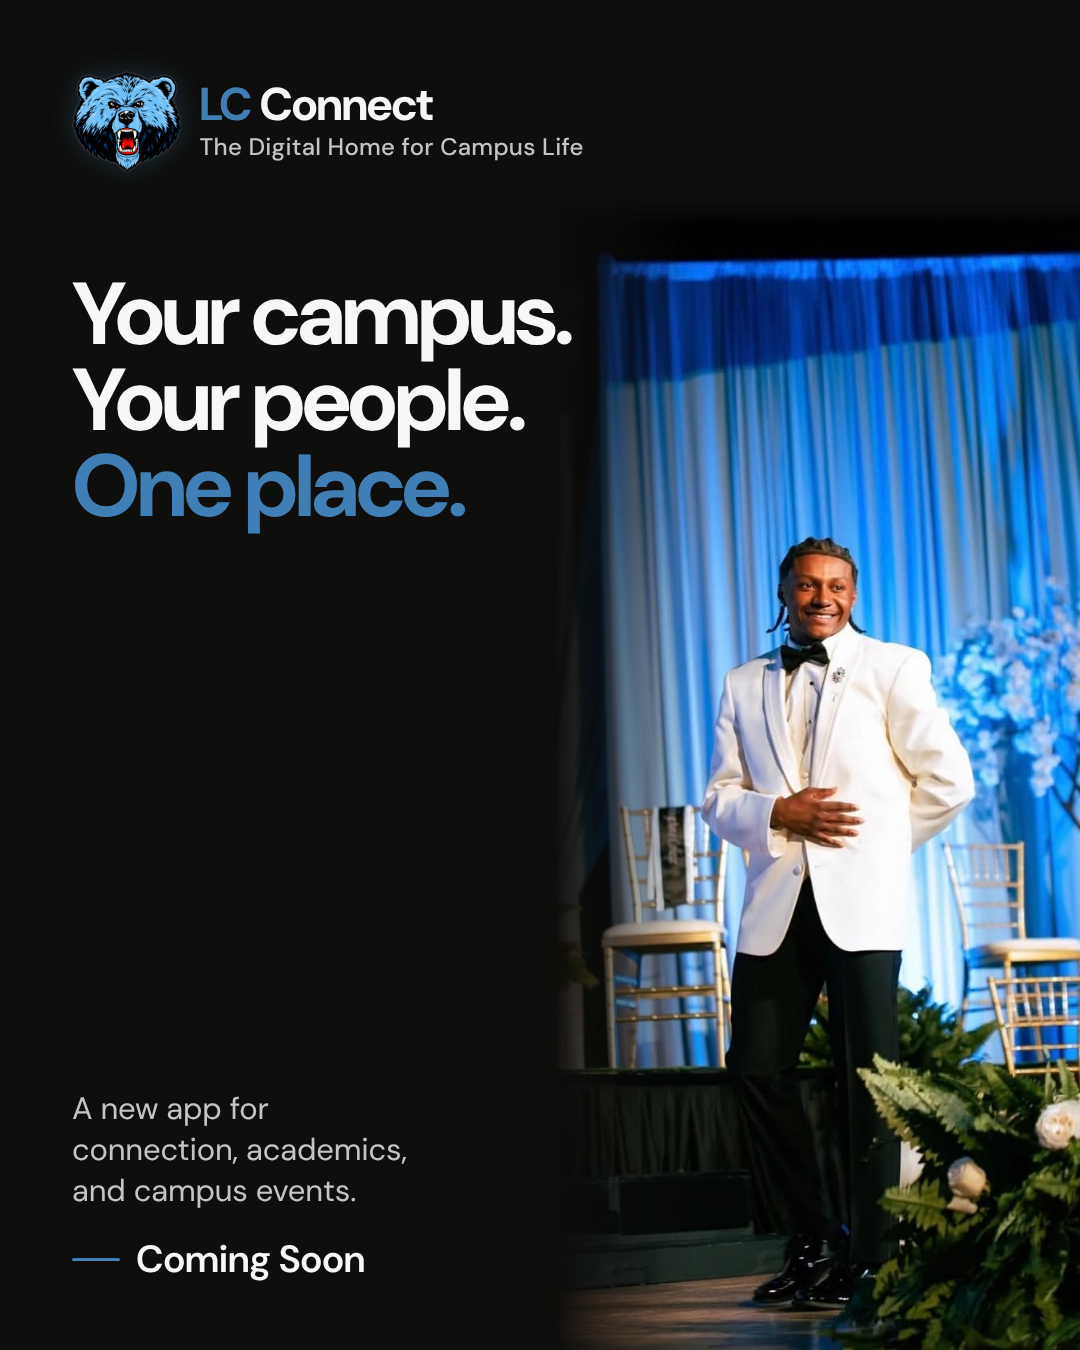
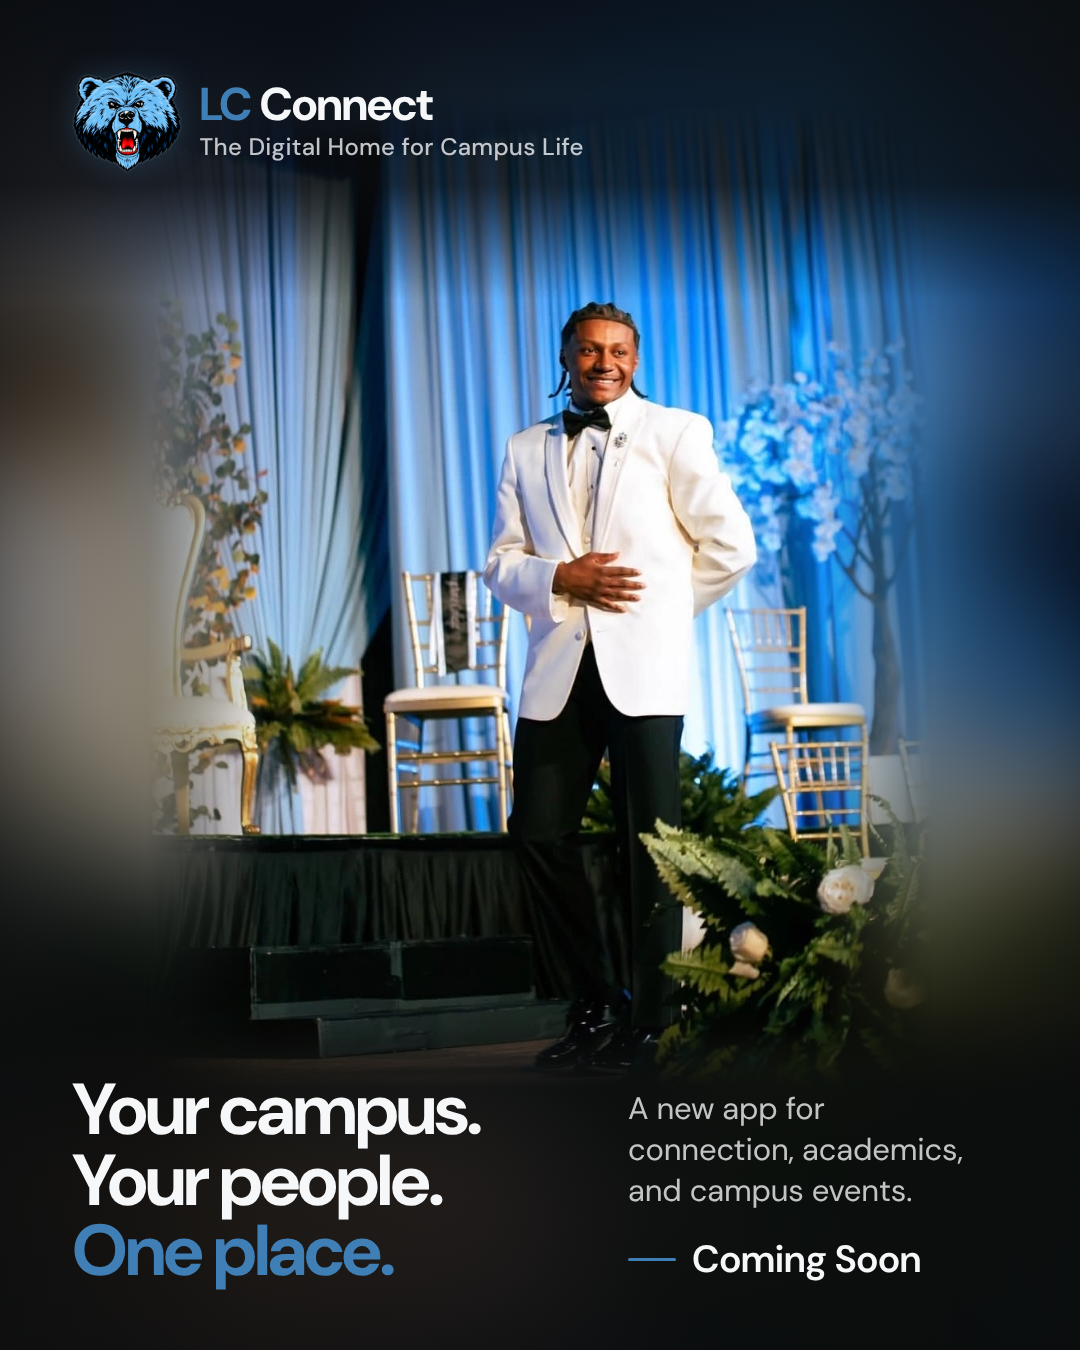
student-07: rework as one continuous image with dark overlays
Replaces the black half with photo.extend on all four sides (extension now
also fills beside a photo narrower than the canvas), a dark overlay behind
the type and a soft side vignette. Crops straight from the story
screenshot, so the derived student-07.png is removed. Other posters render
pixel-identical.

Claude-Session: https://claude.ai/code/session_01Q1CBtzs9MBD2ynYwK4E3t9

diff --git a/campaign/templates/poster.js b/campaign/templates/poster.js
@@ -143,8 +143,8 @@ function fadeOverlay({ from, to, color = "#0e0e0c" }) {
   return `linear-gradient(to bottom, ${stops.join(", ")})`;
 }
 
-// `photo.extend`: { strip, blur } — when a wide photo can't fill the canvas height without cutting
-// people out, the canvas above/below it is filled with the photo's own top/bottom `strip` rows
+// `photo.extend`: { strip, blur } — when a photo can't fill the canvas without cutting people out
+// or upscaling, the canvas around it (above/below, and beside it if it is narrower) is filled with the photo's own top/bottom `strip` rows
 // stretched to fit and blurred by `blur` px (sky and ground read as out-of-focus continuation). The
 // sharp photo sits on top, feathered into it. Nothing is generated: it is the photo's own pixels.
 async function extendedBackdrop(img, poster, photo) {
@@ -161,6 +161,14 @@ async function extendedBackdrop(img, poster, photo) {
   ctx.drawImage(img, 0, 0, w, strip, x, 0, w, y + strip);              // top strip → above
   ctx.drawImage(img, 0, h - strip, w, strip, x, y + h - strip, w, ch - y - h + strip); // bottom → below
   ctx.drawImage(img, x, y);
+  // Narrower than the canvas: stretch the now full-height edge columns sideways as well.
+  if (x > 0 || x + w < cw) {
+    const band = new OffscreenCanvas(cw, ch);
+    band.getContext("2d").drawImage(base, 0, 0);
+    if (x > 0) ctx.drawImage(band, x, 0, strip, ch, 0, 0, x + strip, ch);
+    if (x + w < cw) ctx.drawImage(band, x + w - strip, 0, strip, ch, x + w - strip, 0, cw - x - w + strip, ch);
+    ctx.drawImage(img, x, y);
+  }
 
   const out = new OffscreenCanvas(cw, ch);
   const octx = out.getContext("2d");

diff --git a/campaign/README.md b/campaign/README.md
@@ -53,7 +53,7 @@ To preview while tweaking, serve the folder (`npx http-server .`) and open
 | `photo.feather` | `{left,right,top,bottom}` px of soft edge for any photo edge that lands inside the canvas. |
 | `photo.backdrop.bands` | Sampling resolution for the gradient backdrop (default 40); raise it (e.g. 200) when the floor lighting changes quickly. |
 | `photo.fadeOut` | `{ from, to, color? }` canvas rows over which the photo dissolves (smoothstep) into black (`color`, default campaign black `#0e0e0c`); a coloured backdrop extension fades with it. `color: null` dissolves into the backdrop itself instead (e.g. to hide an edge mark while keeping a coloured ground). For bright or saturated photos with no dark negative space: the type then sits on black below the subject. |
-| `photo.extend` | `{ strip, blur }` — fill the canvas above/below a wide photo with its own top/bottom `strip` rows, stretched and blurred by `blur` px, instead of black. Pair with a `layout.tone` dark gradient behind the type. Use when a landscape group can't fill the height without cutting someone out. |
+| `photo.extend` | `{ strip, blur }` — fill the canvas around a photo (above/below, and beside it if narrower) with its own top/bottom `strip` rows, stretched and blurred by `blur` px, instead of black. Pair with a `layout.tone` dark gradient behind the type. Use when a landscape group can't fill the height without cutting someone out. |
 | `layout.accent` | Override the accent colour (default brand blue) — only for a photo whose own colour makes the blue unreadable, e.g. `"var(--lc-ink-white)"` on saturated red. |
 | `layout.brandTop` | Move the brand lockup down from the top margin (px), e.g. into a faded-out band with the rest of the type. |
 | `photo.blend` | `{ side, width, solid?, top?, bottom?, fade }` — lays the backdrop over one photo edge (fully opaque for `solid` px, fading out by `width` px), limited to below canvas y `top` and/or above canvas y `bottom`. For textured floors where a narrow feather shows a seam but a wide one would fade the subject, or to settle a corner of the photo (e.g. app UI on a screenshot) into the backdrop. |
@@ -127,11 +127,11 @@ Copy, colours, type and the logo treatment are deliberately **not** per-student:
   top fading into campaign black under the type column. The story's repost icon and the
   photographer's watermark sat on the photo's top-right corner; `photo.blend` settles that corner
   into black like ceiling shadow. The subject area is pixel-identical to the screenshot.
-- **student-07** (white tuxedo on a stage, also a story screenshot): cropped to x 200–725 of the
-  photo card — this drops the story's repost icon and a half-visible second person at the right
-  edge, and keeps ~105px of stage either side of the student. The bright blue curtains can't carry
-  type, so the 525×1148 crop sits at 1:1 flush right as a panel, its left edge fading over the dark
-  gap between curtains, and the whole left half is black for the type column.
+- **student-07** (white tuxedo on a stage, from a story screenshot): `photo.crop` takes x 118–904,
+  y 476–1470 of the screenshot — below the story's repost icon, left of a half-visible second person,
+  inside the card's rounded corners — at 1:1. The photo is narrower and shorter than the canvas, so
+  `photo.extend` continues its own curtains and stage on all four sides (blurred), with a dark
+  overlay top and bottom for the type and a soft side vignette like a stage spotlight. No black split.
 - **student-08** (suit and vintage briefcase on a sunny lawn, film-grain look): bright everywhere, the
   shoes and briefcase touch the bottom edge (no room to dissolve), and the file is narrower than the
   canvas. So the photo is set as a hard-edged print bleeding off the right and bottom edges —
@@ -185,9 +185,8 @@ Copy, colours, type and the logo treatment are deliberately **not** per-student:
   canvas without upscaling and shows some softness. The original file from the photographer (Shot
   Vault Media) would allow a larger, sharper subject. Their watermark is covered by the corner
   blend — confirm usage/credit with them.
-- student-07 is also from a story screenshot (photo card ~848×1148, recompressed). The crop is
-  narrow (525px), so the student is small-ish in frame (~80px face); the original file would allow
-  a wider, sharper crop.
+- student-07 is from a story screenshot (photo card ~848×1148, recompressed), so it is a little
+  soft; the original file would sharpen it.
 - A full-length pose makes the face smaller (≈110px wide on the 1080 canvas) than a three-quarter
   portrait; still recognisable on a phone, but tighter shots suit the campaign best.
 - Brand colours are the app's UI tokens; if Livingstone College has official print/brand
